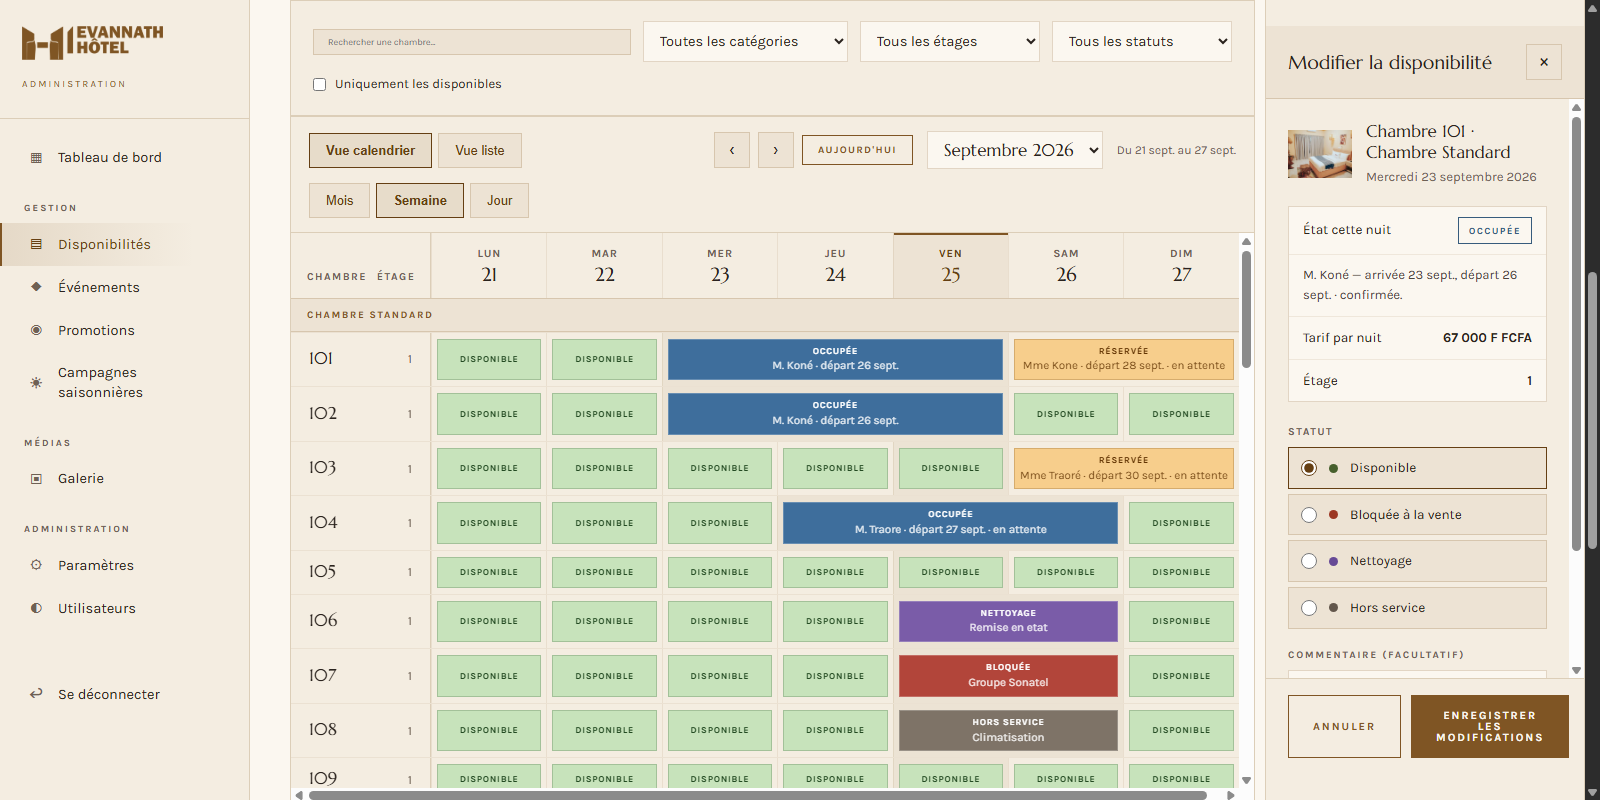
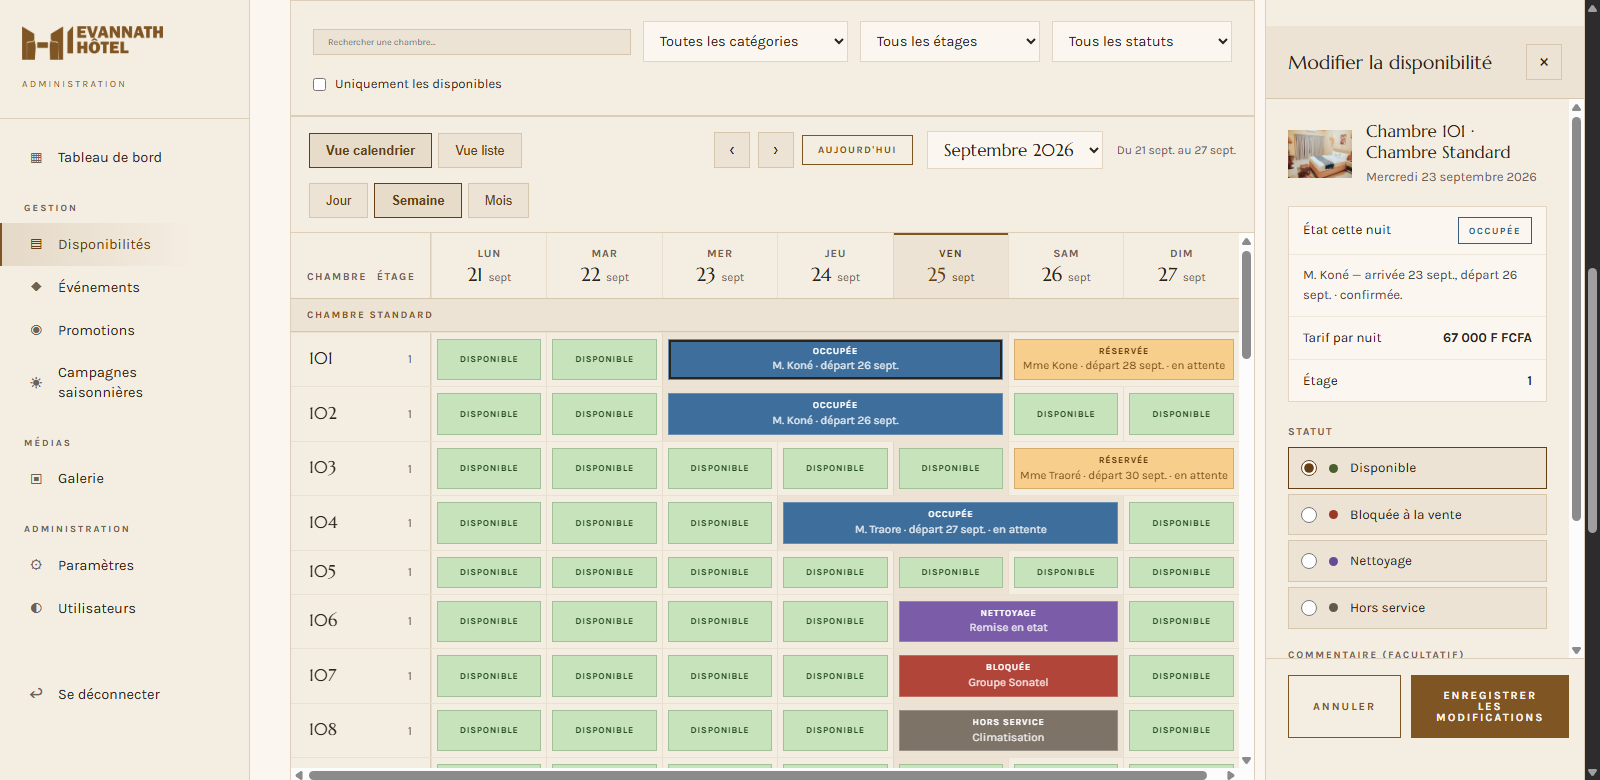
Le back-office passe au marine et or de la maquette
Le SITE reste creme : la direction n'aimait pas le fond noir, et c'est
elle que le client voit. Le back-office est un OUTIL, pas une vitrine —
il suit desormais la maquette de passation.

Les noms des jetons ne changent pas. C'est ce qui avait permis de passer
le site du noir au creme sans toucher onze fichiers, et c'est ce qui
permet l'inverse ici en un seul bloc.

Les valeurs de la maquette sont reprises SAUF quand la mesure les
refuse, et elle en refuse quatre :
  - blanc sur #3F86E6 (occupee) : 3,64:1
  - blanc sur #8E6FD0 (nettoyage) : 3,94:1
  - blanc sur #D14A4A (bloquee) : 4,38:1
  - l'or #8A6A33 en intertitre sur la surface creusee : 4,38:1
Les quatre sont assombris du strict necessaire — meme teinte. Chaque
paire tient au moins 4,6:1, et l'or tient dans les DEUX sens : 4,68:1
comme texte, 5,35:1 pour du blanc pose dessus.

La barre laterale redevient marine. Son texte ne peut plus heriter de
--cream, qui designe le texte principal et vaut le marine lui-meme :
chaque couleur y est redite en clair.

LE LOGO, DEUXIEME FOIS. La barre est passee au marine et le logo bronze
y est tombe a 2,57:1 — invisible, exactement comme le logo blanc l'etait
sur le creme il y a deux jours. Le balayage de contraste ne pouvait pas
le voir : il ne mesure que du texte, et un logo est une image.

Controle 19 : le back-office a DEUX fonds, donc deux logos. L'ecran de
connexion est clair et prend le bronze ; la barre est marine et prend le
blanc. Prouve dans les deux sens.
[…]

diff --git a/site/admin/index.html b/site/admin/index.html
@@ -10,60 +10,61 @@
 <link rel="stylesheet" href="/admin/disponibilites.css">
 <style>
 :root{
-  /* Creme chaud, comme le site depuis le 24 septembre 2026. Les valeurs
-     sont celles de TOKENS dans _chrome.py : le back-office n'est pas
-     genere, il les porte donc en clair — et le controle 18 verifie
-     qu'elles n'ont pas diverge.
+  /* ── Marine, or et blanc ────────────────────────────────────────────
+     Le SITE est creme : la direction n'aimait pas le fond noir, et c'est
+     elle que le client voit. Le back-office est un OUTIL, pas une vitrine,
+     et il suit la maquette de passation — marine, or, blanc.
 
-     --night ne devient PAS clair : ce n'est pas « le fond le plus noir »,
-     c'est CE QUI CONTRASTE AVEC LE BRONZE, pour le texte sur aplat bronze.
-     --cream garde son nom et designe le TEXTE principal. */
-  --night:#100B06; --bark:#FBF7F0; --bark-2:#F4EDE1; --bark-3:#EDE3D4;
-  --bronze:#7F5524; --bronze-2:#653F13;
-  --cream:#2A231E; --prose:#4C423B; --muted:#6E6154;
-  --palm:#4F6B32; --err:#A63A25;
-  --line:rgba(138,95,43,.22); --line-2:rgba(138,95,43,.12);
-  /* L'ambre des alertes. Il etait ecrit en dur, clair, prevu pour un fond
-     sombre : sur le creme il tombait a 1,9:1. */
+     Les noms des jetons ne changent pas. C'est ce qui avait permis de
+     passer le site du noir au creme sans toucher onze fichiers, et c'est
+     ce qui permet l'inverse ici.
+
+     Les valeurs de la maquette sont reprises SAUF quand la mesure les
+     refuse : elle pose du blanc sur un or clair (#B8925A), ce qui donne
+     2,6:1. L'or du projet est donc plus sombre — c'est le meme or, assez
+     fonce pour porter du texte. */
+  --night:#0F1E33;   /* marine : barre laterale, texte sur or */
+  --bark:#F4F6FA;    /* le fond de l'application */
+  --bark-2:#FFFFFF;  /* les cartes */
+  --bark-3:#EDF0F4;  /* les surfaces creusees */
+  /* L'or. Il sert de TEXTE (libelles, intertitres) et de FOND (boutons) :
+     il lui faut donc tenir dans les deux sens. A #8A6A33 l'intertitre
+     tombait a 4,38:1 sur la surface creusee ; celui-ci donne 4,68:1, et
+     5,35:1 pour du blanc pose dessus. */
+  --bronze:#846631;
+  --bronze-2:#6B5124;
+  /* --cream garde son nom et designe le TEXTE principal. Le renommer
+     voudrait dire toucher trente-neuf declarations. */
+  --cream:#0F1E33; --prose:#465061; --muted:#5B6576;
+  --palm:#2F6B44; --err:#A3342C;
+  --line:#E1E5EC; --line-2:#EEF1F5;
+  /* L'ambre des alertes. */
   --ambre:#8A5A12;
-  /* ── Les cinq etats du calendrier ───────────────────────────────────
-     Une case du calendrier ecrit le nom de son etat DANS sa propre
-     couleur, sur un fond qui est cette meme couleur a 8 %, lui-meme pose
-     sur un voile bronze a 7 %. Le fond compose descend a #DAD1C3, et le
-     texte fait 9 px gras : il lui faut 4,5:1.
 
-     Les couleurs partagees avec le site n'y suffisaient pas — --palm
-     donnait 3,99:1, --muted 3,97:1. Elles ne sont pas modifiees pour
-     autant : le site les utilise sur du creme franc, ou elles tiennent.
-     Ces cinq-la leur sont propres, assombries du strict necessaire, et
-     ne servent qu'aux etats. */
-  --et-libre:#47602D; --et-res:#7B5010; --et-occ:#375C7D;
-  --et-bloq:#9C3723;  --et-hs:#63574C;
-  /* Le nettoyage : ni vendable ni en panne. Le violet de la maquette
-     (#9A6FE0) ne donnait que 2,43:1 sur la teinte des cases ; celui-ci
-     tient 4,62:1. */
-  --et-net:#674A96;
+  /* ── Les cinq etats du calendrier, en pastille ──────────────────────
+     Couleurs de TEXTE, pour les legendes et les listes de choix. Les
+     CASES, elles, sont des aplats : voir --f-* / --t-* plus bas. */
+  --et-libre:#2F6B44; --et-res:#8A5A12; --et-occ:#28558A;
+  --et-bloq:#A3342C;  --et-hs:#4E5867;  --et-net:#5B4494;
 
   /* ── Les cases du calendrier : des APLATS ──────────────────────────
-     Les six jetons --et-* ci-dessus sont des couleurs de TEXTE, posees sur
-     une teinte a 8 %. C'est juste pour une pastille ou une legende ; c'est
-     insuffisant pour une grille de quarante-six lignes qu'on balaie du
-     regard a sept heures du matin.
-
      Un calendrier n'est pas une page a contempler, c'est un instrument de
-     signalisation. Les cases prennent donc un vrai fond, comme la maquette
-     de passation le demandait — reteinte pour le creme, et mesuree : chaque
-     paire fond/texte tient au moins 4,6:1.
+     signalisation : quarante-six lignes se balaient du regard. Les valeurs
+     viennent de la maquette, ajustees quand la mesure les refusait — le
+     bleu de l'occupation donnait 3,64:1 avec du texte blanc, le violet du
+     nettoyage 3,94:1, le rouge 4,38:1. Les trois sont assombris du strict
+     necessaire — meme teinte, assez foncee pour porter du blanc. Chaque
+     paire fond/texte tient au moins 4,6:1. */
+  --f-libre:#BFE8BB; --t-libre:#1F4F2A;
+  --f-res:#FCC873;   --t-res:#6B3F00;
+  --f-occ:#3775C9;   --t-occ:#FFFFFF;
+  --f-bloq:#CB4848;  --t-bloq:#FFFFFF;
+  --f-net:#8165BD;   --t-net:#FFFFFF;
+  --f-hs:#767676;    --t-hs:#FFFFFF;
 
-     Le cadre reste creme. Ce sont les cases qui portent la donnee. */
-  --f-libre:#C7E3BB; --t-libre:#234A22;
-  --f-res:#F7CE8C;   --t-res:#603200;
-  --f-occ:#3E6E9C;   --t-occ:#FFFFFF;
-  --f-bloq:#B2453A;  --t-bloq:#FFFFFF;
-  --f-net:#7A5CA8;   --t-net:#FFFFFF;
-  --f-hs:#7E7367;    --t-hs:#FFFFFF;
   --f-t:"Marcellus",Georgia,serif; --f-b:"Karla",system-ui,sans-serif;
 }
+
 *{box-sizing:border-box;margin:0;padding:0}
 body{background:var(--bark);color:var(--cream);font-family:var(--f-b);font-size:15px;line-height:1.6}
 a{color:var(--bronze-2);text-decoration:none}
@@ -90,8 +91,21 @@ a{color:var(--bronze-2);text-decoration:none}
 /* La barre passe au creme avec le reste. Elle etait restee a --night :
    son texte, devenu sombre, tombait a 1,27:1 — le menu ne se lisait
    plus du tout. */
-aside{background:var(--bark-2);border-right:1px solid var(--line);padding:26px 0;
+/* La barre laterale est MARINE, comme la maquette. Son texte ne peut donc
+   pas heriter de --cream, qui designe le texte principal et vaut le marine
+   lui-meme : chaque couleur y est redite en clair. */
+aside{background:var(--night);border-right:1px solid rgba(255,255,255,.08);padding:26px 0;
   position:sticky;top:0;height:100vh;overflow:auto}
+aside .marque{border-bottom-color:rgba(255,255,255,.10)}
+aside .marque span{color:#C9A46A}
+aside nav h2{color:#8FA0B8}
+aside nav button{color:#E6ECF6}
+aside nav button i{color:#8FA0B8}
+aside nav button:hover{background:rgba(255,255,255,.06);color:#fff}
+aside nav button:hover i{color:#C9A46A}
+aside nav button.on{background:linear-gradient(90deg,rgba(201,164,106,.18),transparent 78%);
+  border-left-color:#C9A46A;color:#fff}
+aside nav button.on i{color:#C9A46A}
 .marque{padding:0 22px 24px;border-bottom:1px solid var(--line);margin-bottom:18px}
 .marque img{display:block;height:34px;width:auto;margin-bottom:10px}
 .marque span{font-size:9.5px;letter-spacing:.24em;text-transform:uppercase;color:var(--bronze)}
@@ -393,7 +407,7 @@ details.plus summary::marker{color:var(--bronze)}
 <div id="cadre">
   <aside>
     <div class="marque">
-      <img src="/img/opt/logo-bronze.png" alt="Hôtel Evannath">
+      <img src="/img/opt/logo-blanc.png" alt="Hôtel Evannath">
       <span>Administration</span>
     </div>
     <nav id="menu">

diff --git a/site/verifier.py b/site/verifier.py
@@ -391,6 +391,27 @@ def controler():
                 pb.append((f, 'disponibilite affirmee dans le balisage : « %s »'
                            ' — elle doit venir de DISPO_JS' % phrase))
 
+    # 19. le back-office a DEUX fonds, donc deux logos.
+    # Le controle 18 verifie les 21 pages du site. Le back-office y echappait,
+    # et le defaut s'y est reproduit tel quel : sa barre laterale est passee au
+    # marine, et le logo bronze y est tombe a 2,57:1 — invisible. La regle est
+    # la meme, la mesure aussi : un logo est une image, et le balayage de
+    # contraste ne voit que du texte.
+    #
+    # L'ecran de connexion est clair (--bark), la barre laterale est sombre
+    # (--night). Chacun son logo, et c'est verifiable sans regarder un pixel.
+    admin = 'admin/index.html'
+    if os.path.exists(admin):
+        a = io.open(admin, encoding='utf-8').read()
+        porte = re.search(r'<div id="porte">(.*?)</div>\s*<!--', a, re.S)             or re.search(r'<div id="porte">(.*?)</form>', a, re.S)
+        barre = re.search(r'<div class="marque">(.*?)</div>', a, re.S)
+        if porte and 'logo-bronze.png' not in porte.group(1):
+            pb.append((admin, 'ecran de connexion : fond clair, le logo bronze '
+                       'est attendu'))
+        if barre and 'logo-blanc.png' not in barre.group(1):
+            pb.append((admin, 'barre laterale : fond marine, le logo blanc '
+                       'est attendu'))
+
     # 17. chaque entree du menu du back-office doit peindre quelque chose.
     # Un decoupage du tableau de bord, ancre sur la branche suivante, a emporte
     # les trois branches qui vivaient entre les deux : evenements, promotions,
